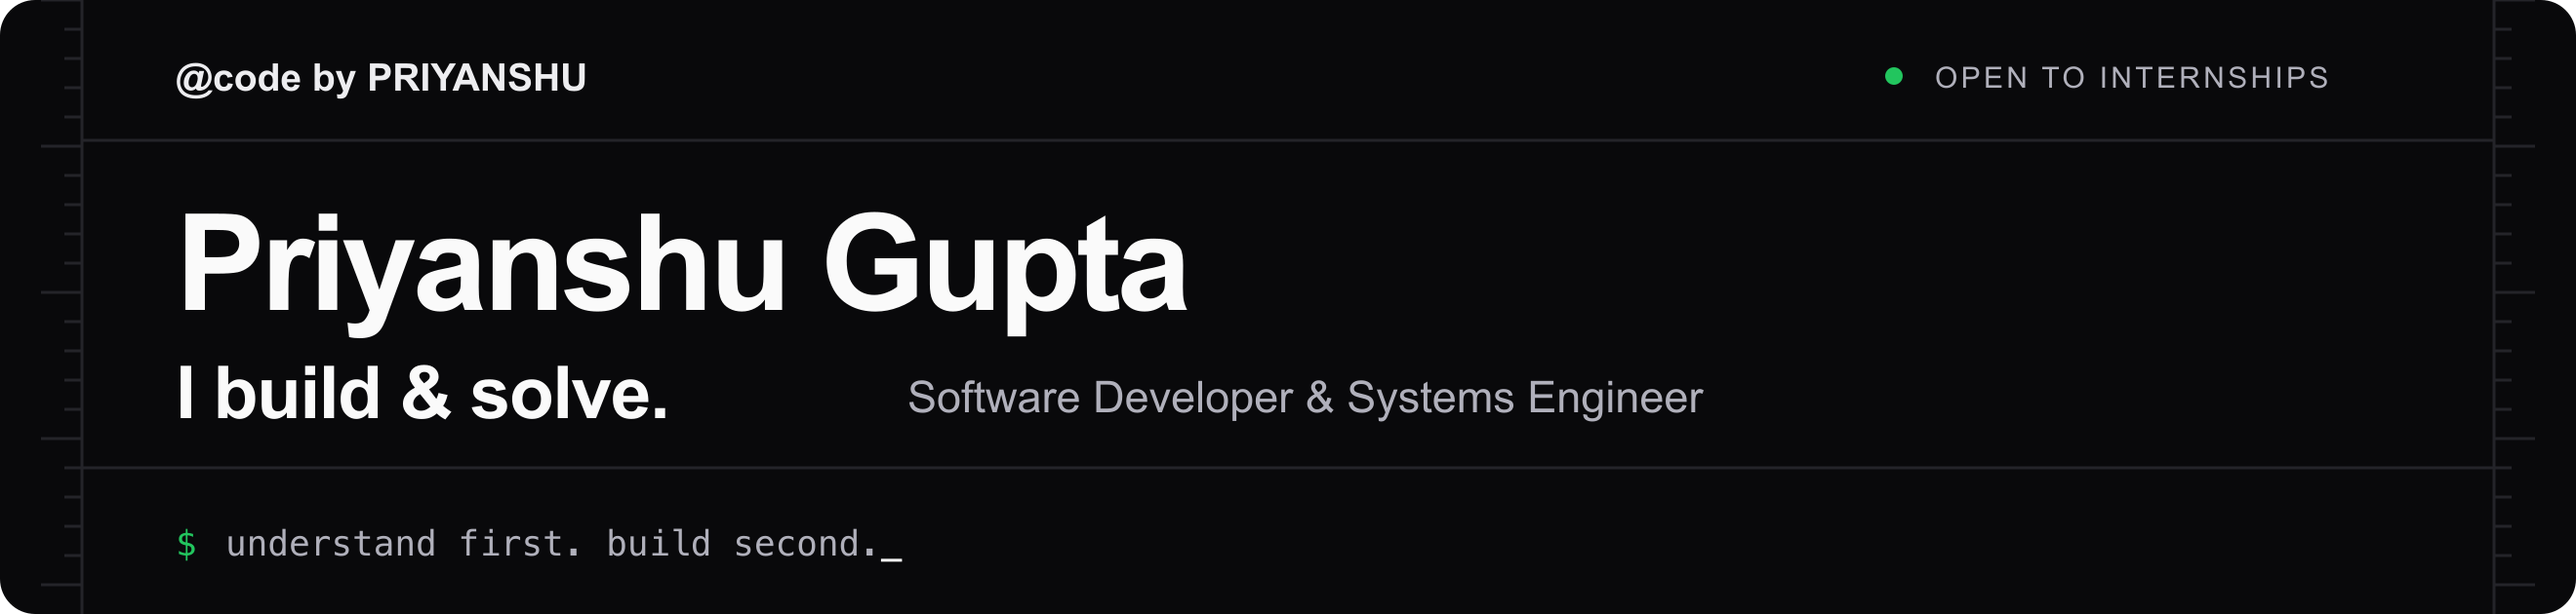
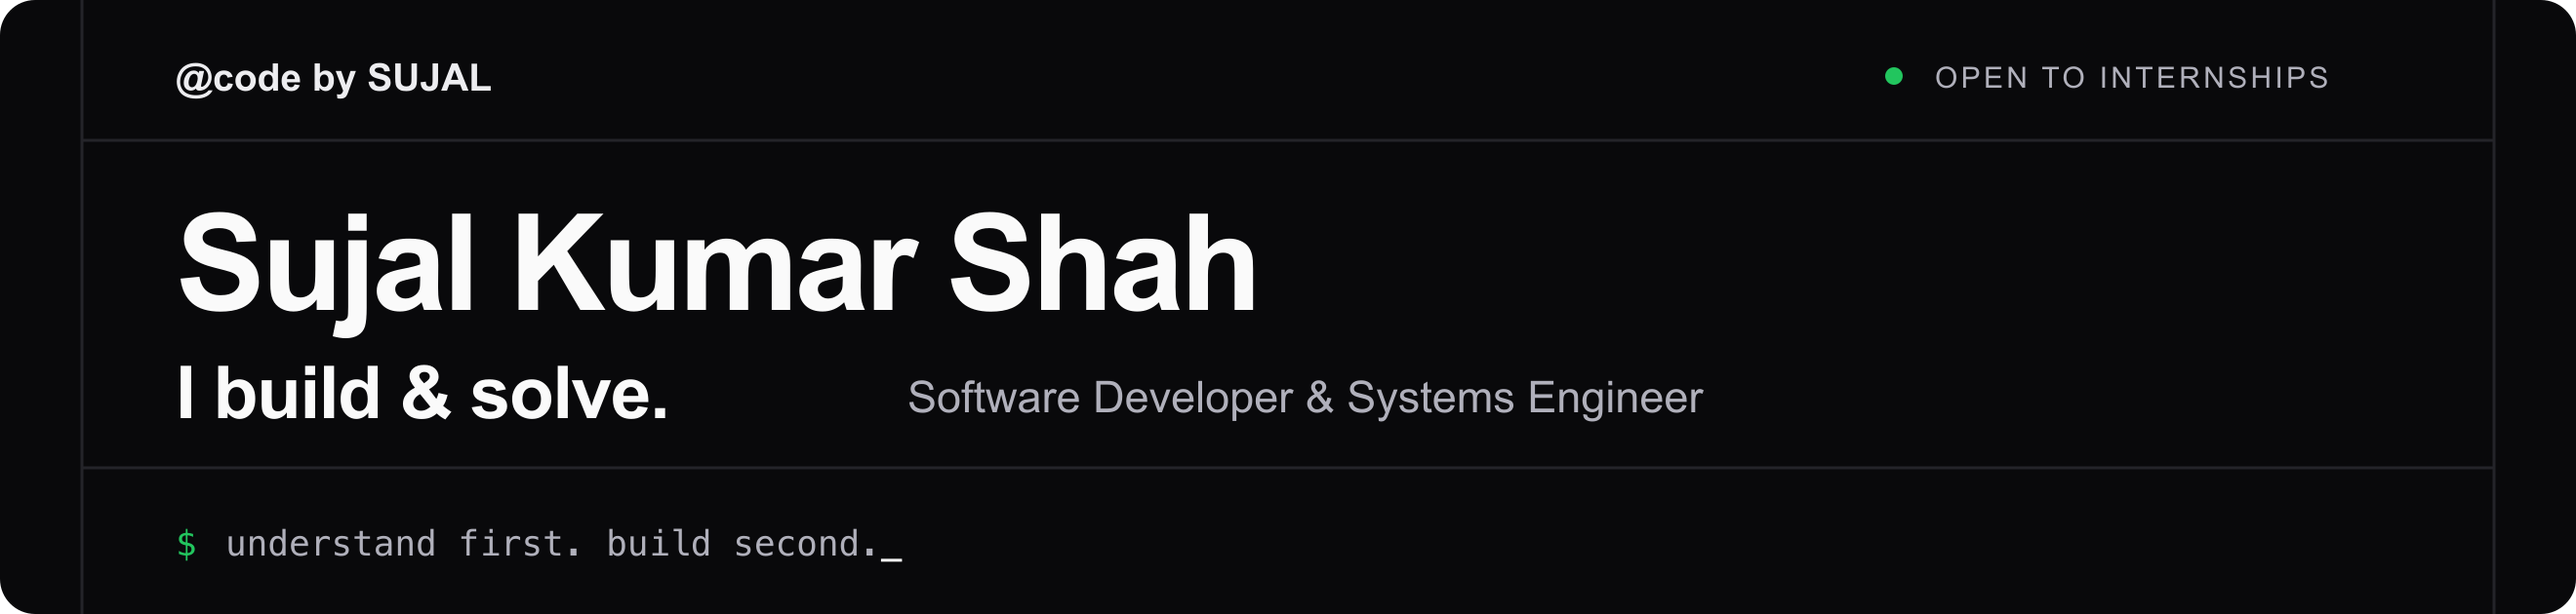
feat(readme): update animated header and add github analytics with language breakdown

Changed region(s): [[0.0621, 0.3317, 0.497, 0.573], [0.1242, 0.0905, 0.2485, 0.1508], [0.0621, 0.3317, 0.0932, 0.3619]]

diff --git a/README.md b/README.md
@@ -14,6 +14,7 @@ I'm **Sujal Kumar Shah**, a software developer focused on **modern web developme
 </p>
 
 <p align="center">
+  <img src="assets/readme/stack-cpp.svg" height="28" alt="C++" />
   <img src="assets/readme/stack-typescript.svg" height="28" alt="TypeScript" />
   <img src="assets/readme/stack-javascript.svg" height="28" alt="JavaScript" />
   <img src="assets/readme/stack-react.svg" height="28" alt="React" />
@@ -22,6 +23,28 @@ I'm **Sujal Kumar Shah**, a software developer focused on **modern web developme
   <img src="assets/readme/stack-linux.svg" height="28" alt="Linux" />
   <img src="assets/readme/stack-git.svg" height="28" alt="Git" />
 </p>
+
+<!-- activity:start -->
+### GitHub Analytics
+
+<p align="center">
+  <a href="https://github.com/SujalKumarShah">
+    <picture>
+      <source media="(max-width: 600px)" srcset="assets/readme/activity-compact-b0c02a7faa99.svg" />
+      <img src="assets/readme/activity-761c7a8d5c2f.svg" width="880" alt="405 profile contributions of all types and 66 active days in the past year. Separately, 331 all-time commits in owned public repositories. Monthly contribution chart." />
+    </picture>
+  </a>
+</p>
+
+<p align="center">
+  <a href="https://github.com/SujalKumarShah?tab=repositories">
+    <picture>
+      <source media="(max-width: 600px)" srcset="assets/readme/languages-compact-8a6e91a2085e.svg" />
+      <img src="assets/readme/languages-f70d8b67afcd.svg" width="880" alt="Combined public repository language percentages by source lines: JavaScript 30.4%, CSS 23.4%, HTML 16.2%, TypeScript 14.3%, C++ 8.1%, Python 7.6%" />
+    </picture>
+  </a>
+</p>
+<!-- activity:end -->
 
 ### What I'm working on
 

diff --git a/docs/README-ASSETS.md b/docs/README-ASSETS.md
@@ -12,11 +12,10 @@ The gray profile-view badge uses [Hits](https://github.com/silentsoft/hits), key
 
 `assets/readme/header@3x.gif` is a typing animation rendered at **2640 × 630**, displayed at **880 × 210**. It uses a 256-color palette without downscaling its frames. The 3× source stays sharp on high-density screens while retaining the compact banner height. The name and role remain visible throughout. The README's picture element selects the equally high-resolution `header-static@3x.png` when the reader prefers reduced motion. Every visual has alternative text, and profile destinations are normal clickable links. GitHub can also show a paused/static image depending on its viewer settings.
 
-The banner, badges, and technology chips are generated by `scripts/generate-readme-assets.mjs`, using the installed Sharp and React Icons packages. Install Pillow for Python 3, then run:
+The banner, badges, and technology chips are generated directly by `scripts/generate-readme-assets.mjs` using Sharp and React Icons:
 
 ```sh
 node scripts/generate-readme-assets.mjs
-python3 scripts/pack-readme-animation.py
 ```
 
 React Icons includes Simple Icons under its respective icon license. The artwork composed around the icons is local to this project.
